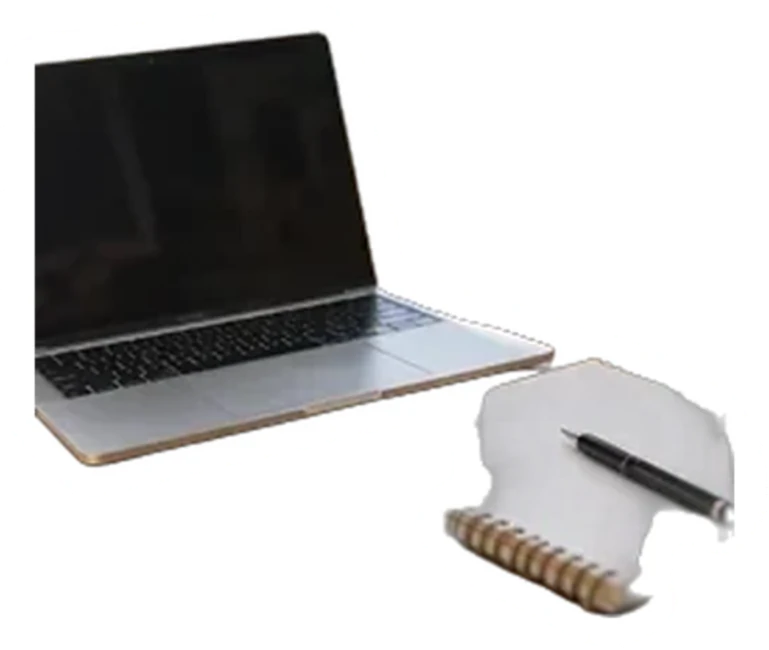
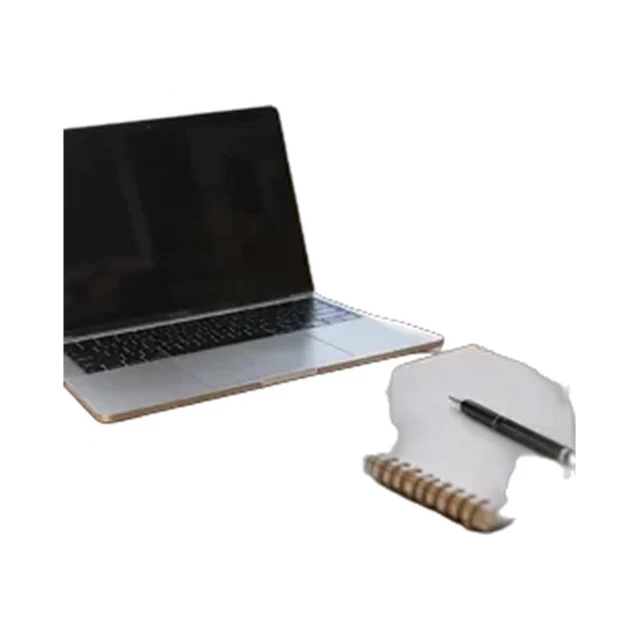
興味の9枚は元の写真のまま、大きさと縮尺をそろえる
- オーナー 2026-10-23「興味関心は元の画像を使って進めて。画像のサイズや縮尺が変だから、自然になるようにして」。
- 食べ物・自然を元の写真（ラテ・湖）に戻した。生成した小籠包・サボテンは外した。
- 9枚とも同じ正方形（640px）に、見た目の面積（不透明な所）が同じ割合になる大きさで置く
  （scripts/onboarding_stickers.py の on_tile）。細長い靴が枠いっぱい、景色の四角が大きすぎたのを直す。
- 画面の枠も 84pt の正方形にした。

Claude-Session: https://claude.ai/code/session_01EyhBo89gkvzmSimAmZZwyP

Changed region(s): [[0.0312, 0.0312, 0.9688, 0.9688], [0.8125, 0.5625, 0.8438, 0.5938]]

diff --git a/ios/CatchWords/Views/OnboardingView.swift b/ios/CatchWords/Views/OnboardingView.swift
@@ -617,7 +617,9 @@ private struct InterestTile: View {
                         Color.clear
                     }
                 }
-                .frame(height: 72)
+                // Every interest's picture is the same square, its sticker sized to the same visual area
+                // (`scripts/onboarding_stickers.py` › on_tile), so a pair of shoes and a street read alike.
+                .frame(width: 84, height: 84)
                 .shadow(color: Color(hex: 0x1C4A80).opacity(isOn ? 0.24 : 0.12), radius: isOn ? 8 : 4, y: isOn ? 6 : 3)
                 .rotationEffect(.degrees(isOn ? -4 : 0))
                 .scaleEffect(isOn ? 1.08 : 1)

diff --git a/scripts/onboarding_stickers.py b/scripts/onboarding_stickers.py
@@ -32,23 +32,31 @@ OUT = SRC
 
 # 名前 → (元の写真, 切り方)。"cut" は物の形、"shaped" は角の丸い形（景色）。
 # 元の写真は blender/onboarding/sources/ に置いてある（アプリには入れない）。
-# gen_*: 2026-10-22〜 ElevenLabs（Seedream 5 Pro）で作った、白い背景の商品写真（切り抜きやすい）。
-# first_catch_*: Web 時代の写真。新しい写真ができたものから置き換える。
+# gen_*: 2026-10-22〜 ElevenLabs（Seedream 5 Pro）で作った、白い背景の商品写真（切り抜きやすい）。最初の画面の絵。
+# first_catch_*: Web 時代の写真。興味の9枚はこれを使う（オーナー 2026-10-23「興味関心は元の画像を使って進めて」）。
 STICKERS = {
     "cafe": ("gen_cafe", "cut"),
     "flower": ("first_catch_flower", "cut"),
     "cat": ("first_catch_cat", "cut"),
     "bubbletea": ("gen_bubbletea", "cut"),
-    "food": ("gen_food", "cut"),
+    "food": ("first_catch_interest_food", "cut"),
     "travel": ("first_catch_interest_travel", "shaped"),
     "animals": ("first_catch_interest_animals", "cut"),
-    "nature": ("gen_nature", "cut"),
+    "nature": ("first_catch_interest_nature", "shaped"),
     "city": ("first_catch_interest_city", "shaped"),
     "fashion": ("first_catch_interest_fashion", "cut"),
     "business": ("first_catch_interest_business", "cut"),
     "music": ("first_catch_interest_music", "cut"),
     "sports": ("first_catch_interest_sports", "cut"),
 }
+
+# 興味の9枚: 同じ大きさの正方形に、見た目の面積（白いふちを含む不透明な所）をそろえて置く
+# （オーナー 2026-10-23「画像のサイズや縮尺が変だから、自然になるようにして」: 細長い靴が枠いっぱい、景色の四角が大きすぎた）。
+INTERESTS = {"food", "travel", "animals", "nature", "city", "fashion", "business", "music", "sports"}
+TILE = 640
+# 正方形に対する不透明な所の割合と、はみ出さないための余白
+TILE_AREA = 0.36
+TILE_MARGIN = 0.06
 
 # 書き出しの長い辺（px）。画面では最大で約 200pt なので 3x でも足りる大きさ。
 LONG_SIDE = 700
@@ -126,6 +134,19 @@ def die_cut(rgba):
     return trim(white)
 
 
+def on_tile(rgba):
+    """正方形のキャンバスの真ん中に、見た目の面積が TILE_AREA になる大きさで置く（枠からははみ出さない）。"""
+    area = (np.asarray(rgba.getchannel("A")) > 128).sum()
+    k = (TILE_AREA * TILE * TILE / max(1, area)) ** 0.5
+    inner = TILE * (1 - 2 * TILE_MARGIN)
+    k = min(k, inner / max(rgba.size))
+    w, h = max(1, round(rgba.width * k)), max(1, round(rgba.height * k))
+    piece = rgba.resize((w, h), Image.LANCZOS)
+    tile = Image.new("RGBA", (TILE, TILE), (0, 0, 0, 0))
+    tile.alpha_composite(piece, ((TILE - w) // 2, (TILE - h) // 2))
+    return tile
+
+
 def main():
     flat = "--flat" in sys.argv
     cuts = sys.argv[sys.argv.index("--cuts") + 1] if "--cuts" in sys.argv else None
@@ -158,6 +179,8 @@ def main():
 
     for name in STICKERS:
         img = trim(Image.open(os.path.join(work, name + ".png")).convert("RGBA"))
+        if name in INTERESTS:
+            img = on_tile(img)
         img.save(os.path.join(OUT, f"onboarding_sticker_{name}.webp"), "WEBP", quality=88, method=6)
         print("wrote", f"onboarding_sticker_{name}.webp", img.size)
 
